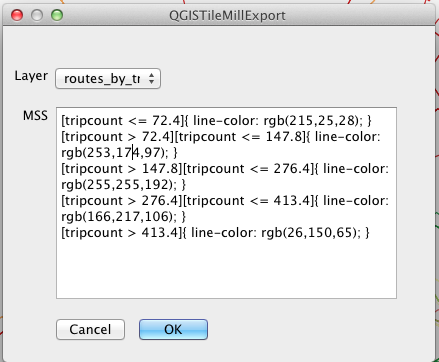
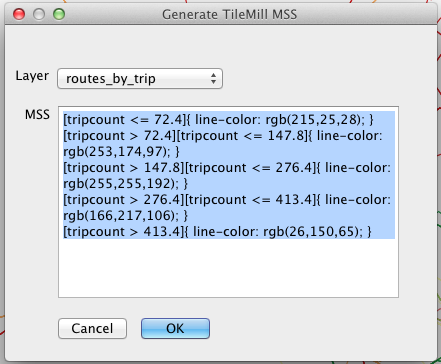
made layer combobox wider, updated screenshot

diff --git a/ui_qgistilemillexport.py b/ui_qgistilemillexport.py
@@ -2,7 +2,7 @@
 
 # Form implementation generated from reading ui file 'ui_qgistilemillexport.ui'
 #
-# Created: Mon Apr  9 12:32:41 2012
+# Created: Mon Apr  9 12:54:18 2012
 #      by: PyQt4 UI code generator 4.9.1
 #
 # WARNING! All changes made in this file will be lost!
@@ -26,10 +26,10 @@ class Ui_QGISTileMillExport(object):
         self.label.setAlignment(QtCore.Qt.AlignRight|QtCore.Qt.AlignTrailing|QtCore.Qt.AlignVCenter)
         self.label.setObjectName(_fromUtf8("label"))
         self.layerComboBox = QtGui.QComboBox(QGISTileMillExport)
-        self.layerComboBox.setGeometry(QtCore.QRect(50, 39, 111, 26))
+        self.layerComboBox.setGeometry(QtCore.QRect(50, 40, 171, 26))
         self.layerComboBox.setObjectName(_fromUtf8("layerComboBox"))
         self.label_3 = QtGui.QLabel(QGISTileMillExport)
-        self.label_3.setGeometry(QtCore.QRect(11, 41, 34, 16))
+        self.label_3.setGeometry(QtCore.QRect(10, 40, 34, 20))
         self.label_3.setAlignment(QtCore.Qt.AlignRight|QtCore.Qt.AlignTrailing|QtCore.Qt.AlignVCenter)
         self.label_3.setObjectName(_fromUtf8("label_3"))
         self.buttonBox = QtGui.QDialogButtonBox(QGISTileMillExport)
@@ -44,7 +44,7 @@ class Ui_QGISTileMillExport(object):
         QtCore.QMetaObject.connectSlotsByName(QGISTileMillExport)
 
     def retranslateUi(self, QGISTileMillExport):
-        QGISTileMillExport.setWindowTitle(QtGui.QApplication.translate("QGISTileMillExport", "QGISTileMillExport", None, QtGui.QApplication.UnicodeUTF8))
+        QGISTileMillExport.setWindowTitle(QtGui.QApplication.translate("QGISTileMillExport", "Generate TileMill MSS", None, QtGui.QApplication.UnicodeUTF8))
         self.label.setText(QtGui.QApplication.translate("QGISTileMillExport", "MSS", None, QtGui.QApplication.UnicodeUTF8))
         self.label_3.setText(QtGui.QApplication.translate("QGISTileMillExport", "Layer", None, QtGui.QApplication.UnicodeUTF8))
 
